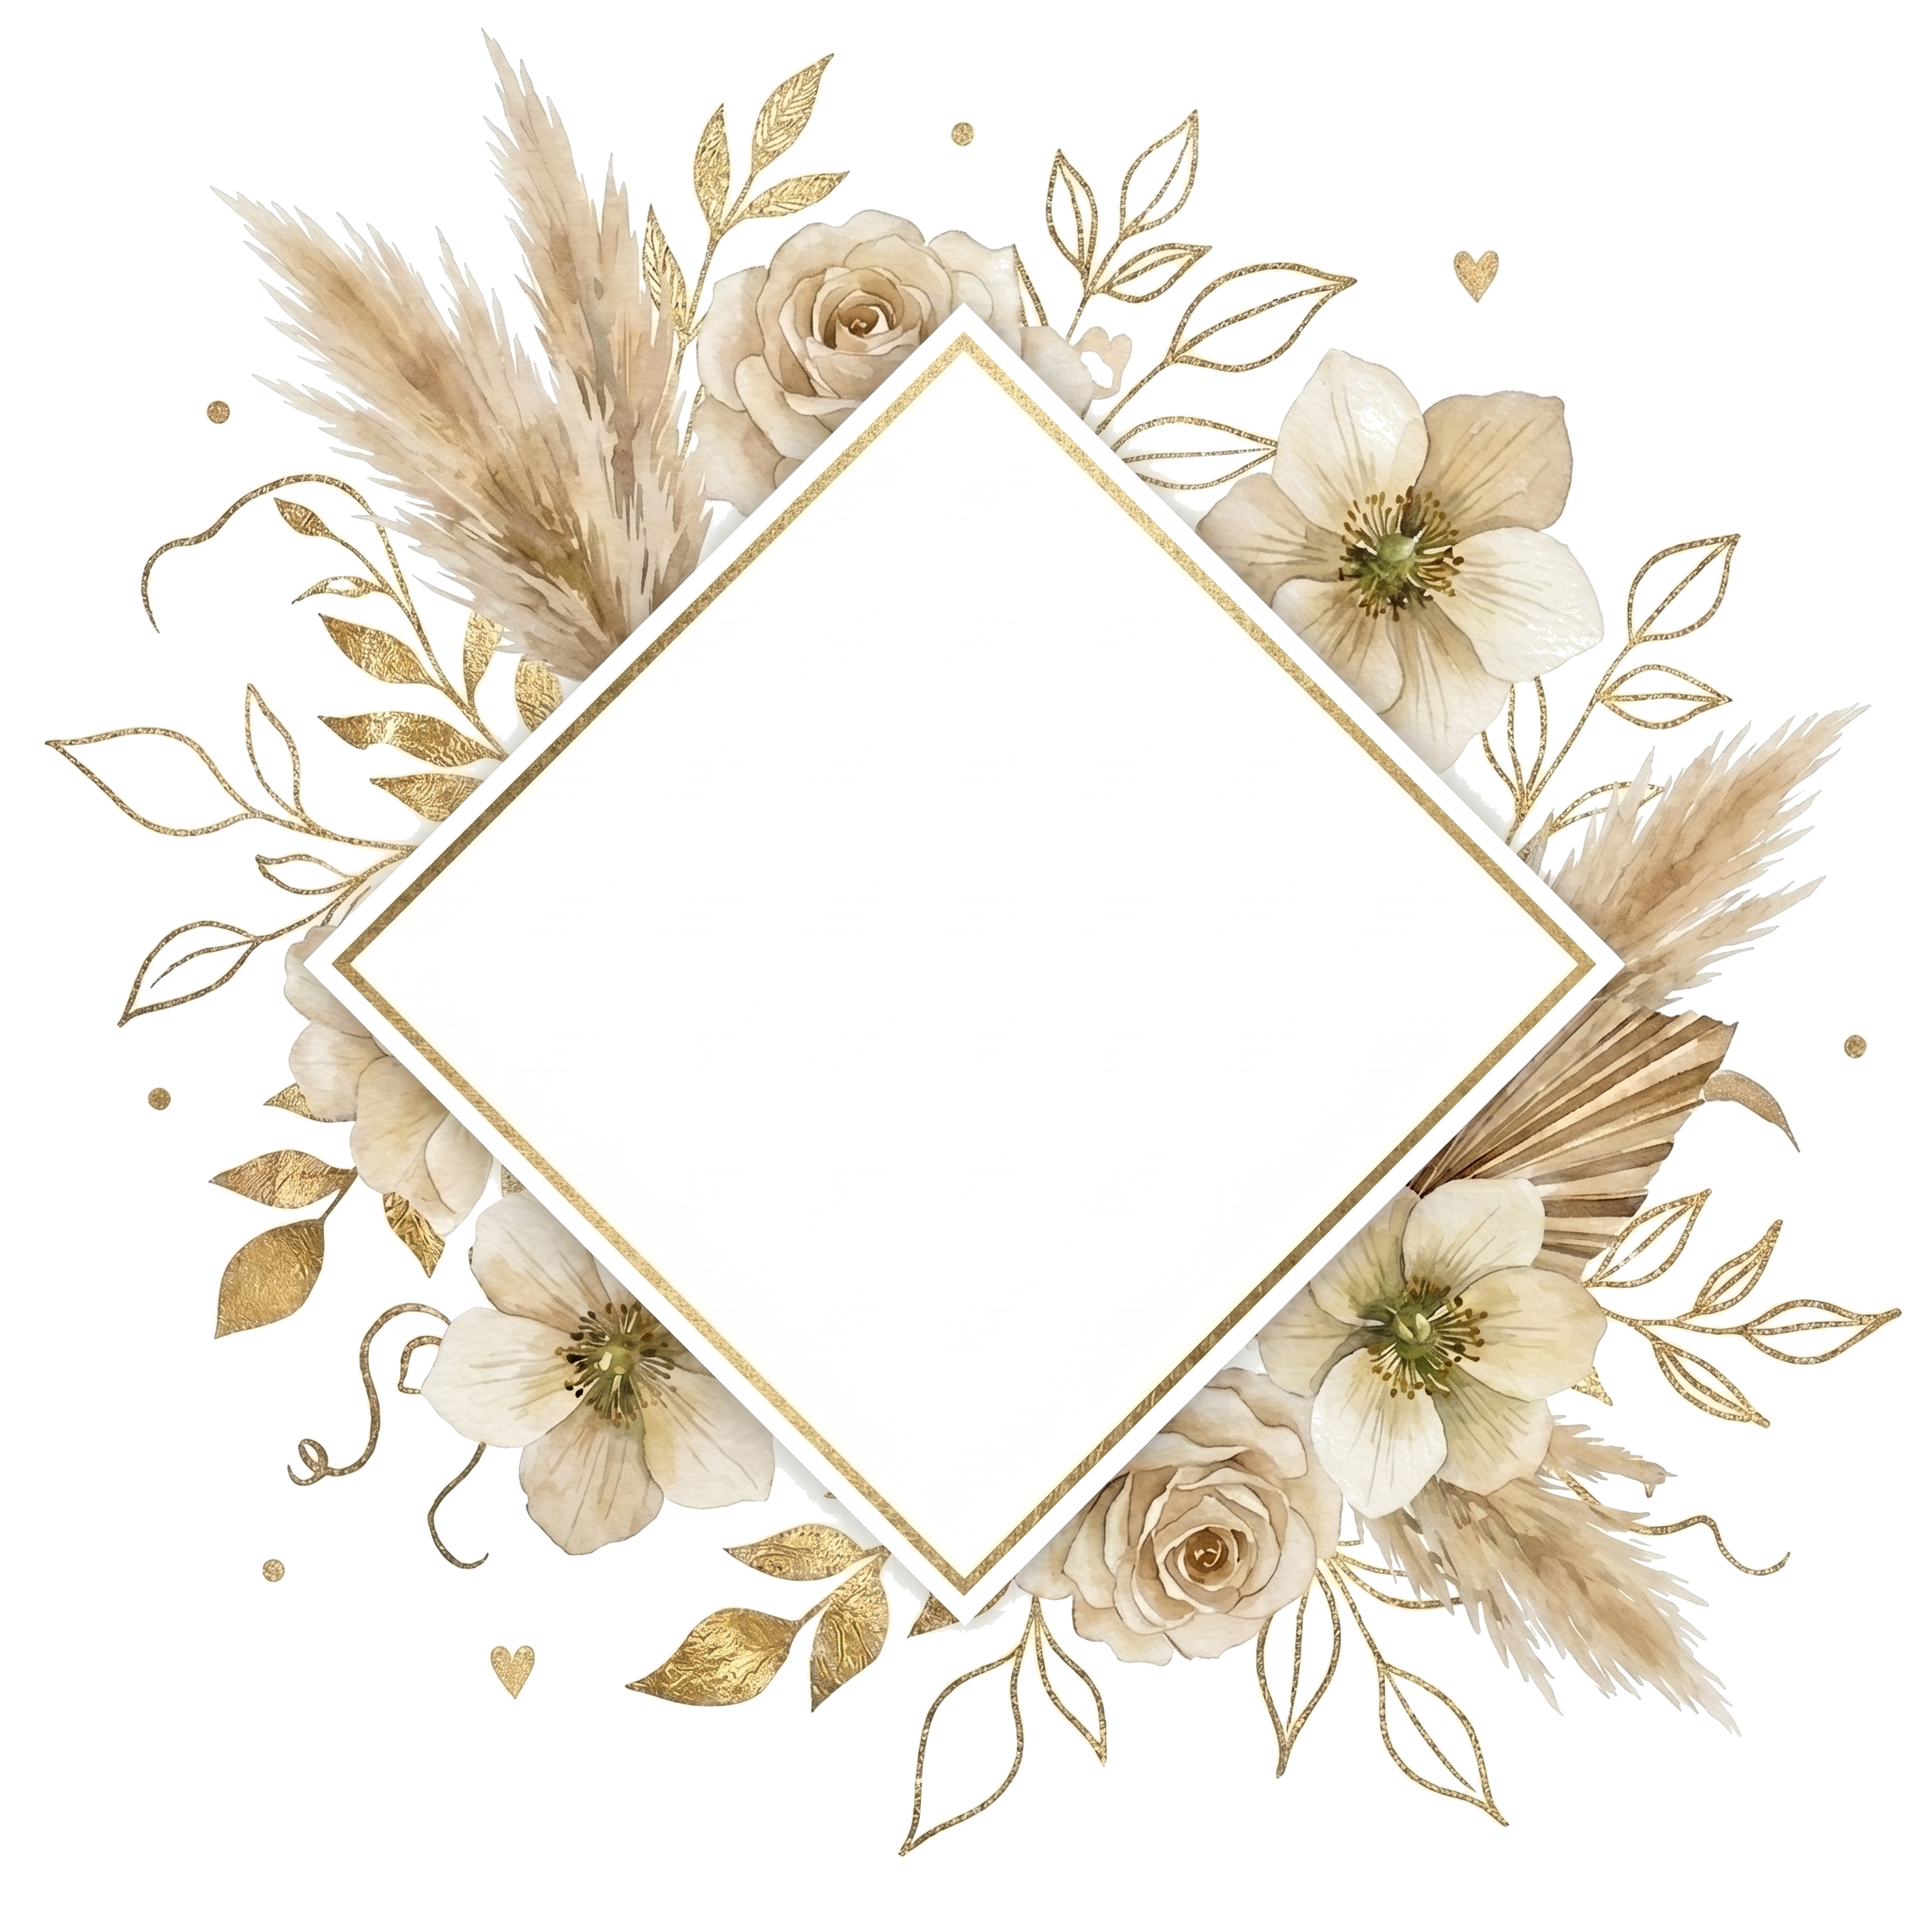
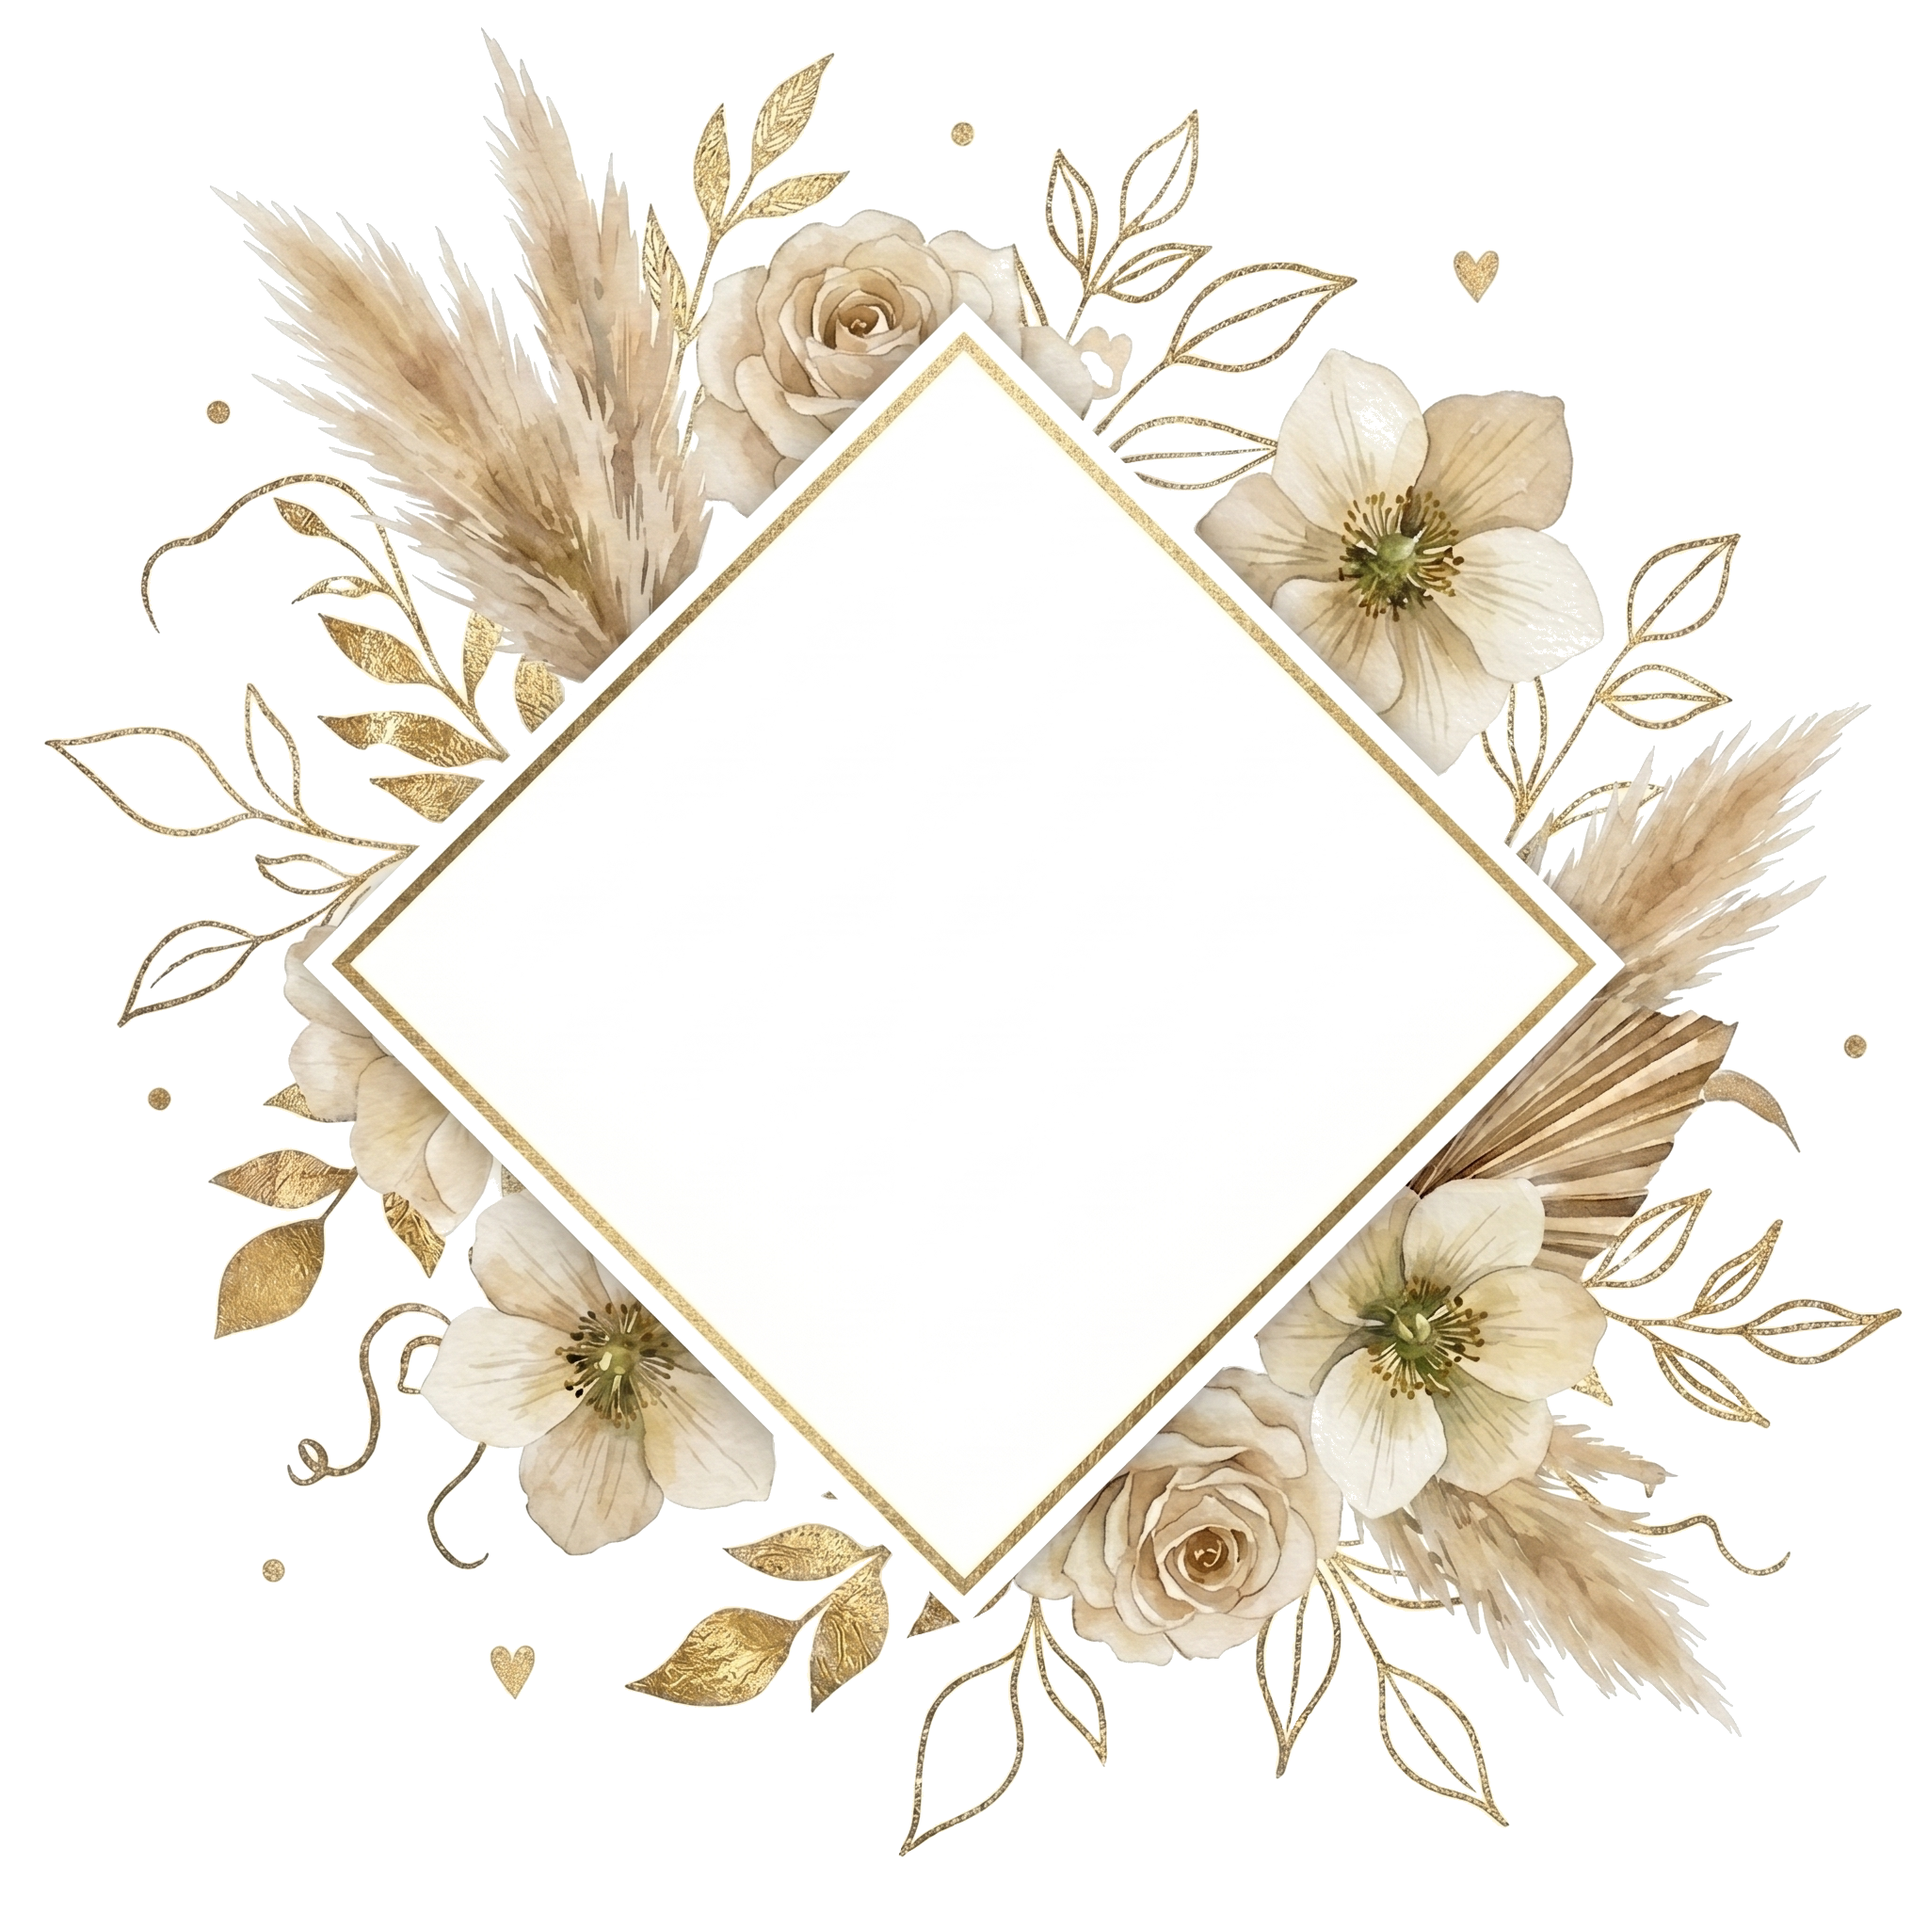
deploy

diff --git a/lib/event-styles.ts b/lib/event-styles.ts
@@ -23,6 +23,7 @@ export const STYLE_CONFIG = {
     bodyLetterSpacing: "0.02em",
     bodyFontWeight: "400",
     fontImport: null as string | null,
+    frameBodyText: null as string | null,
   },
   ivoor: {
     accent: "#9CA996",
@@ -46,6 +47,7 @@ export const STYLE_CONFIG = {
     bodyLetterSpacing: "normal",
     bodyFontWeight: "400",
     fontImport: null as string | null,
+    frameBodyText: null as string | null,
   },
   zand: {
     accent: "#C5A059",
@@ -69,6 +71,7 @@ export const STYLE_CONFIG = {
     bodyLetterSpacing: "normal",
     bodyFontWeight: "400",
     fontImport: "@import url('https://fonts.googleapis.com/css2?family=Cormorant+Garamond:ital,wght@0,300;0,400;0,600;1,300;1,400&family=Pinyon+Script&display=swap');",
+    frameBodyText: null as string | null,
   },
   earthy: {
     accent: "#5A6B5D",
@@ -92,6 +95,7 @@ export const STYLE_CONFIG = {
     bodyLetterSpacing: "normal",
     bodyFontWeight: "500",
     fontImport: null as string | null,
+    frameBodyText: null as string | null,
   },
   emerald: {
     accent: "#D59C76",
@@ -115,6 +119,7 @@ export const STYLE_CONFIG = {
     bodyLetterSpacing: "0.08em",
     bodyFontWeight: "500",
     fontImport: null as string | null,
+    frameBodyText: "#2A1A10" as string | null,
   },
 } as const
 
@@ -142,6 +147,7 @@ export interface SC {
   bodyLetterSpacing: string
   bodyFontWeight: string
   fontImport: string | null
+  frameBodyText: string | null
   fontHero: string
   fontHeroWeight: number
   fontInitials: string

diff --git a/app/bouwen/page.tsx b/app/bouwen/page.tsx
@@ -180,6 +180,7 @@ const STYLE_CONFIG = {
     bodyLetterSpacing: "0.02em",
     bodyFontWeight: "400",
     fontImport: null as string | null,
+    frameBodyText: null as string | null,
   },
   ivoor: {
     accent: "#9CA996",
@@ -203,6 +204,7 @@ const STYLE_CONFIG = {
     bodyLetterSpacing: "normal",
     bodyFontWeight: "400",
     fontImport: null as string | null,
+    frameBodyText: null as string | null,
   },
   zand: {
     accent: "#C5A059",
@@ -226,6 +228,7 @@ const STYLE_CONFIG = {
     bodyLetterSpacing: "normal",
     bodyFontWeight: "400",
     fontImport: "@import url('https://fonts.googleapis.com/css2?family=Cormorant+Garamond:ital,wght@0,300;0,400;0,600;1,300;1,400&family=Pinyon+Script&display=swap');",
+    frameBodyText: null as string | null,
   },
   earthy: {
     accent: "#5A6B5D",
@@ -249,6 +252,7 @@ const STYLE_CONFIG = {
     bodyLetterSpacing: "normal",
     bodyFontWeight: "500",
     fontImport: null as string | null,
+    frameBodyText: null as string | null,
   },
   emerald: {
     accent: "#D59C76",
@@ -272,6 +276,7 @@ const STYLE_CONFIG = {
     bodyLetterSpacing: "0.08em",
     bodyFontWeight: "500",
     fontImport: null as string | null,
+    frameBodyText: "#2A1A10" as string | null,
   },
 } as const
 

diff --git a/components/EventHomePreview.tsx b/components/EventHomePreview.tsx
@@ -248,7 +248,7 @@ export default function EventHomePreview({
                     className="fk-date uppercase text-center mt-[1.1cqi]"
                     style={{
                       fontFamily: sc.fontFamily,
-                      color: sc.bodyText,
+                      color: sc.frameBodyText ?? sc.bodyText,
                       overflow: "hidden",
                       textOverflow: "ellipsis",
                       whiteSpace: "nowrap",
@@ -264,7 +264,7 @@ export default function EventHomePreview({
                     className="fk-location text-center mt-[0.4cqi]"
                     style={{
                       fontFamily: sc.fontFamily,
-                      color: sc.bodyText,
+                      color: sc.frameBodyText ?? sc.bodyText,
                       overflow: "hidden",
                       textOverflow: "ellipsis",
                       whiteSpace: "nowrap",
